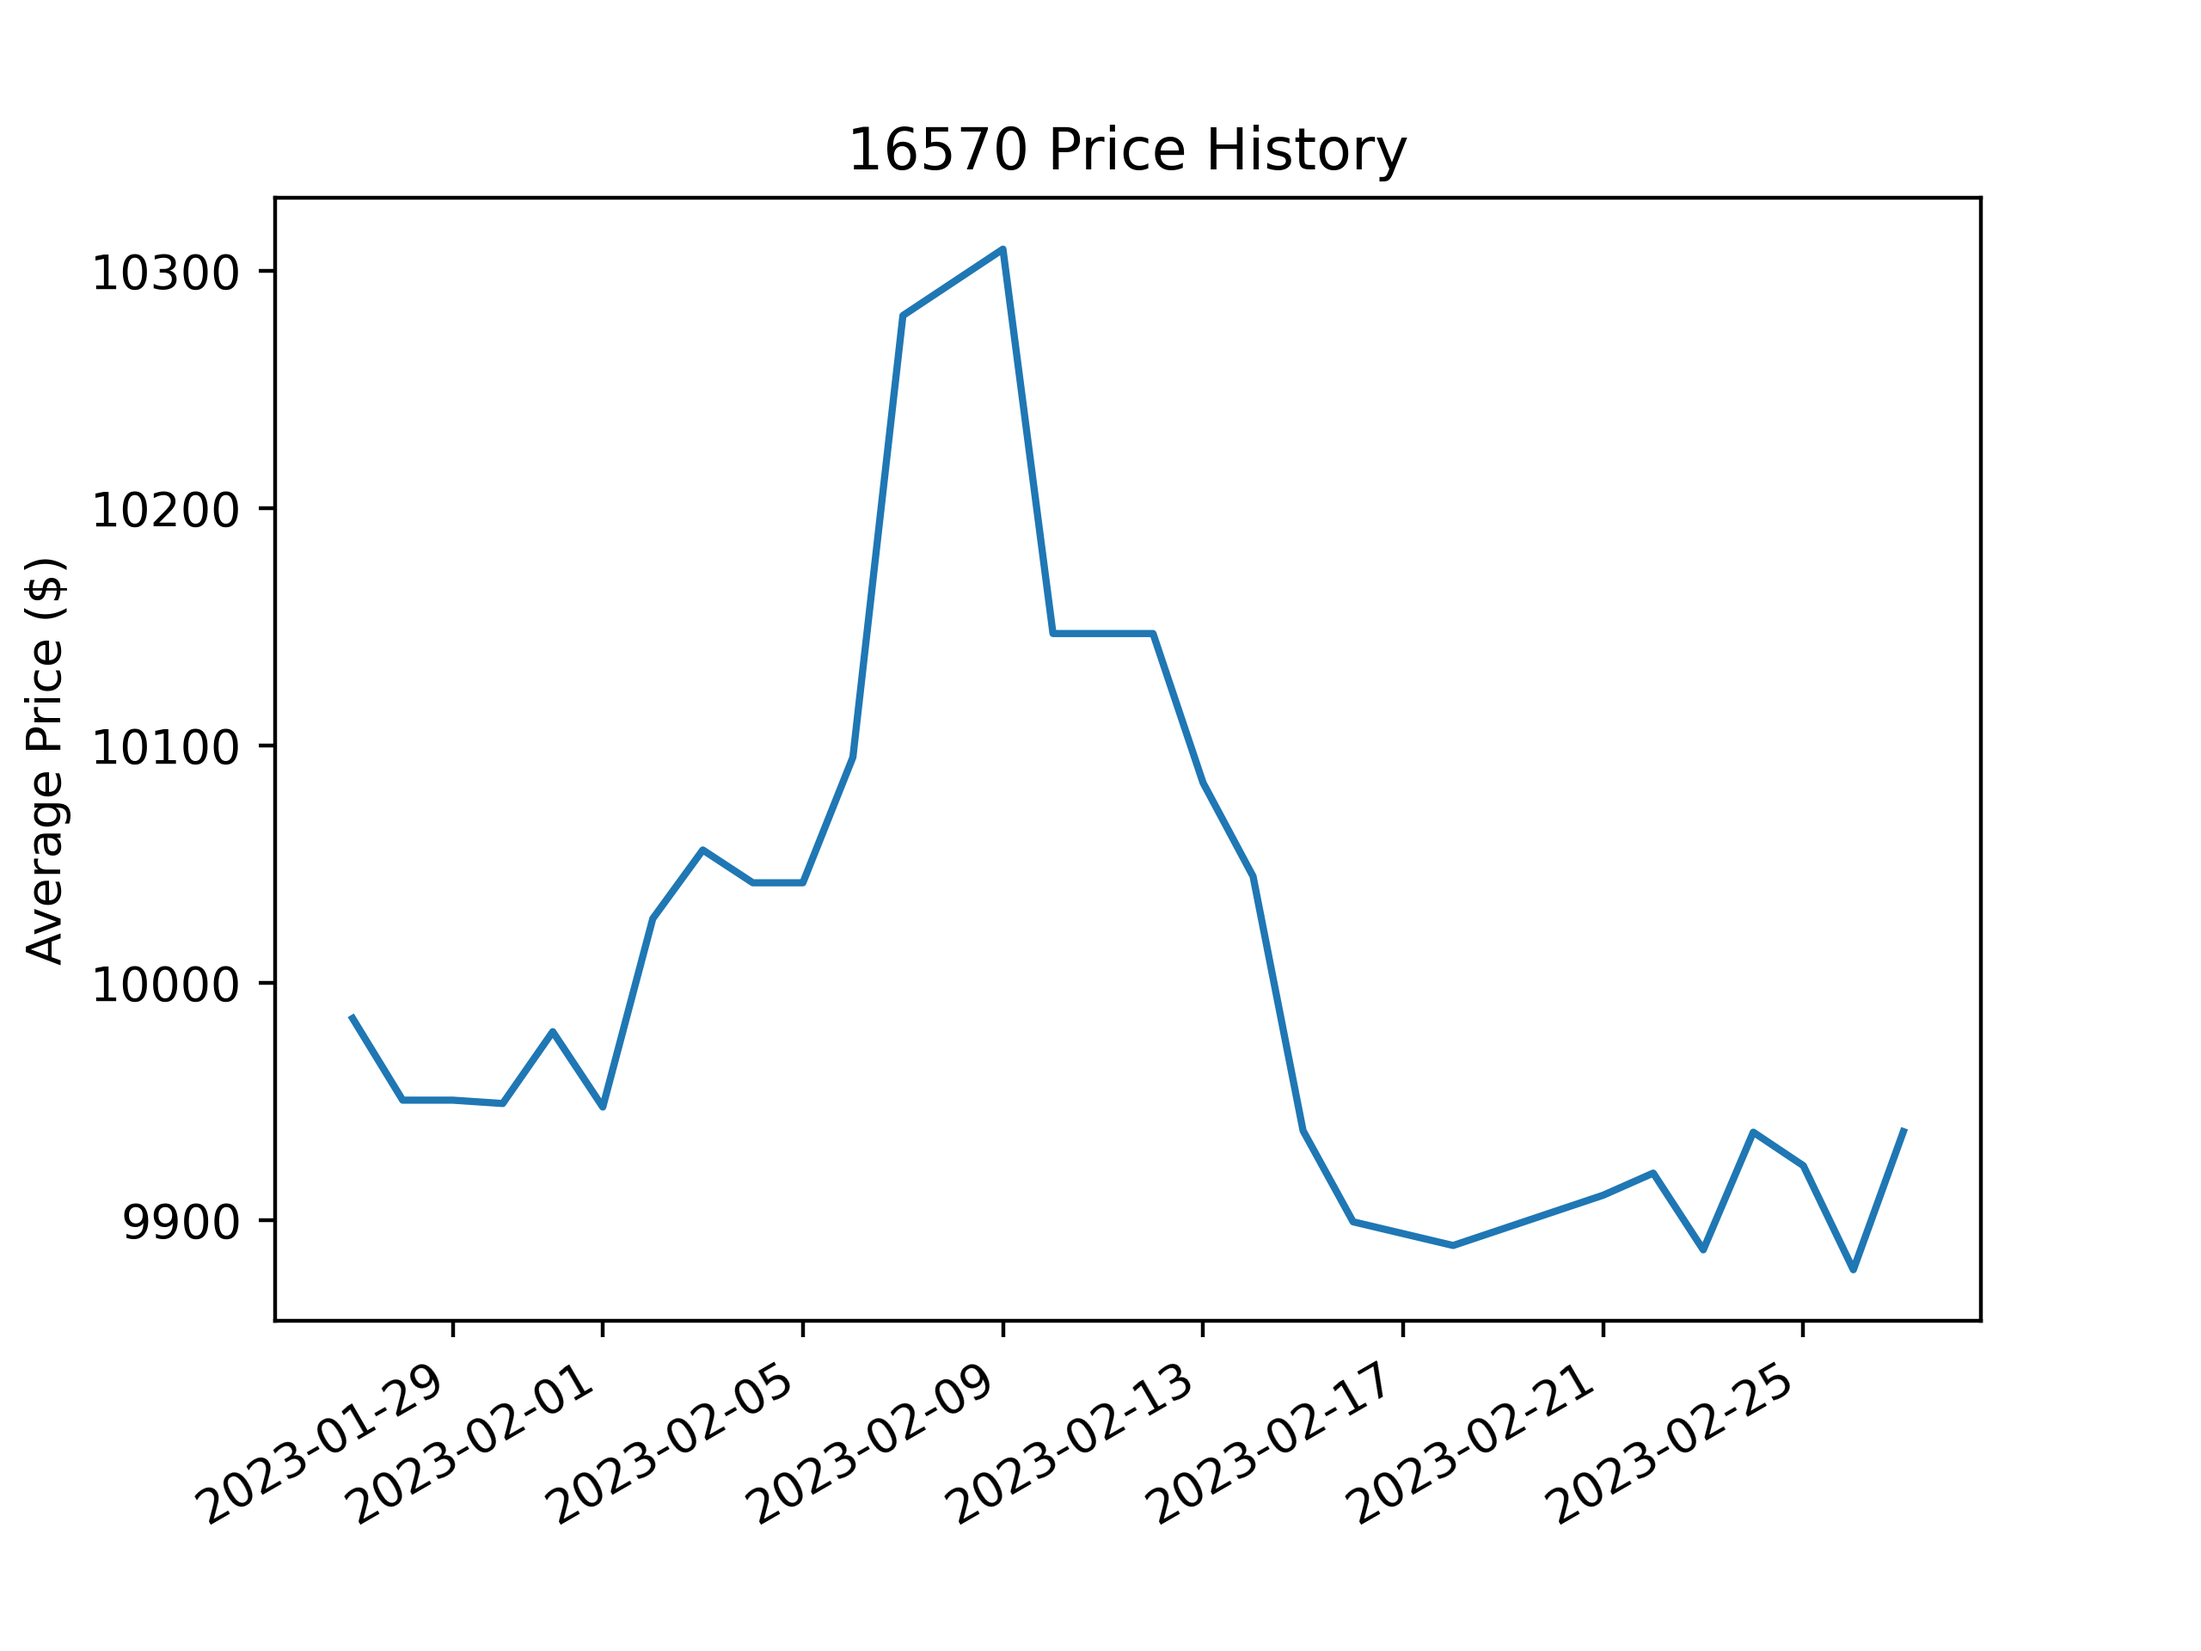
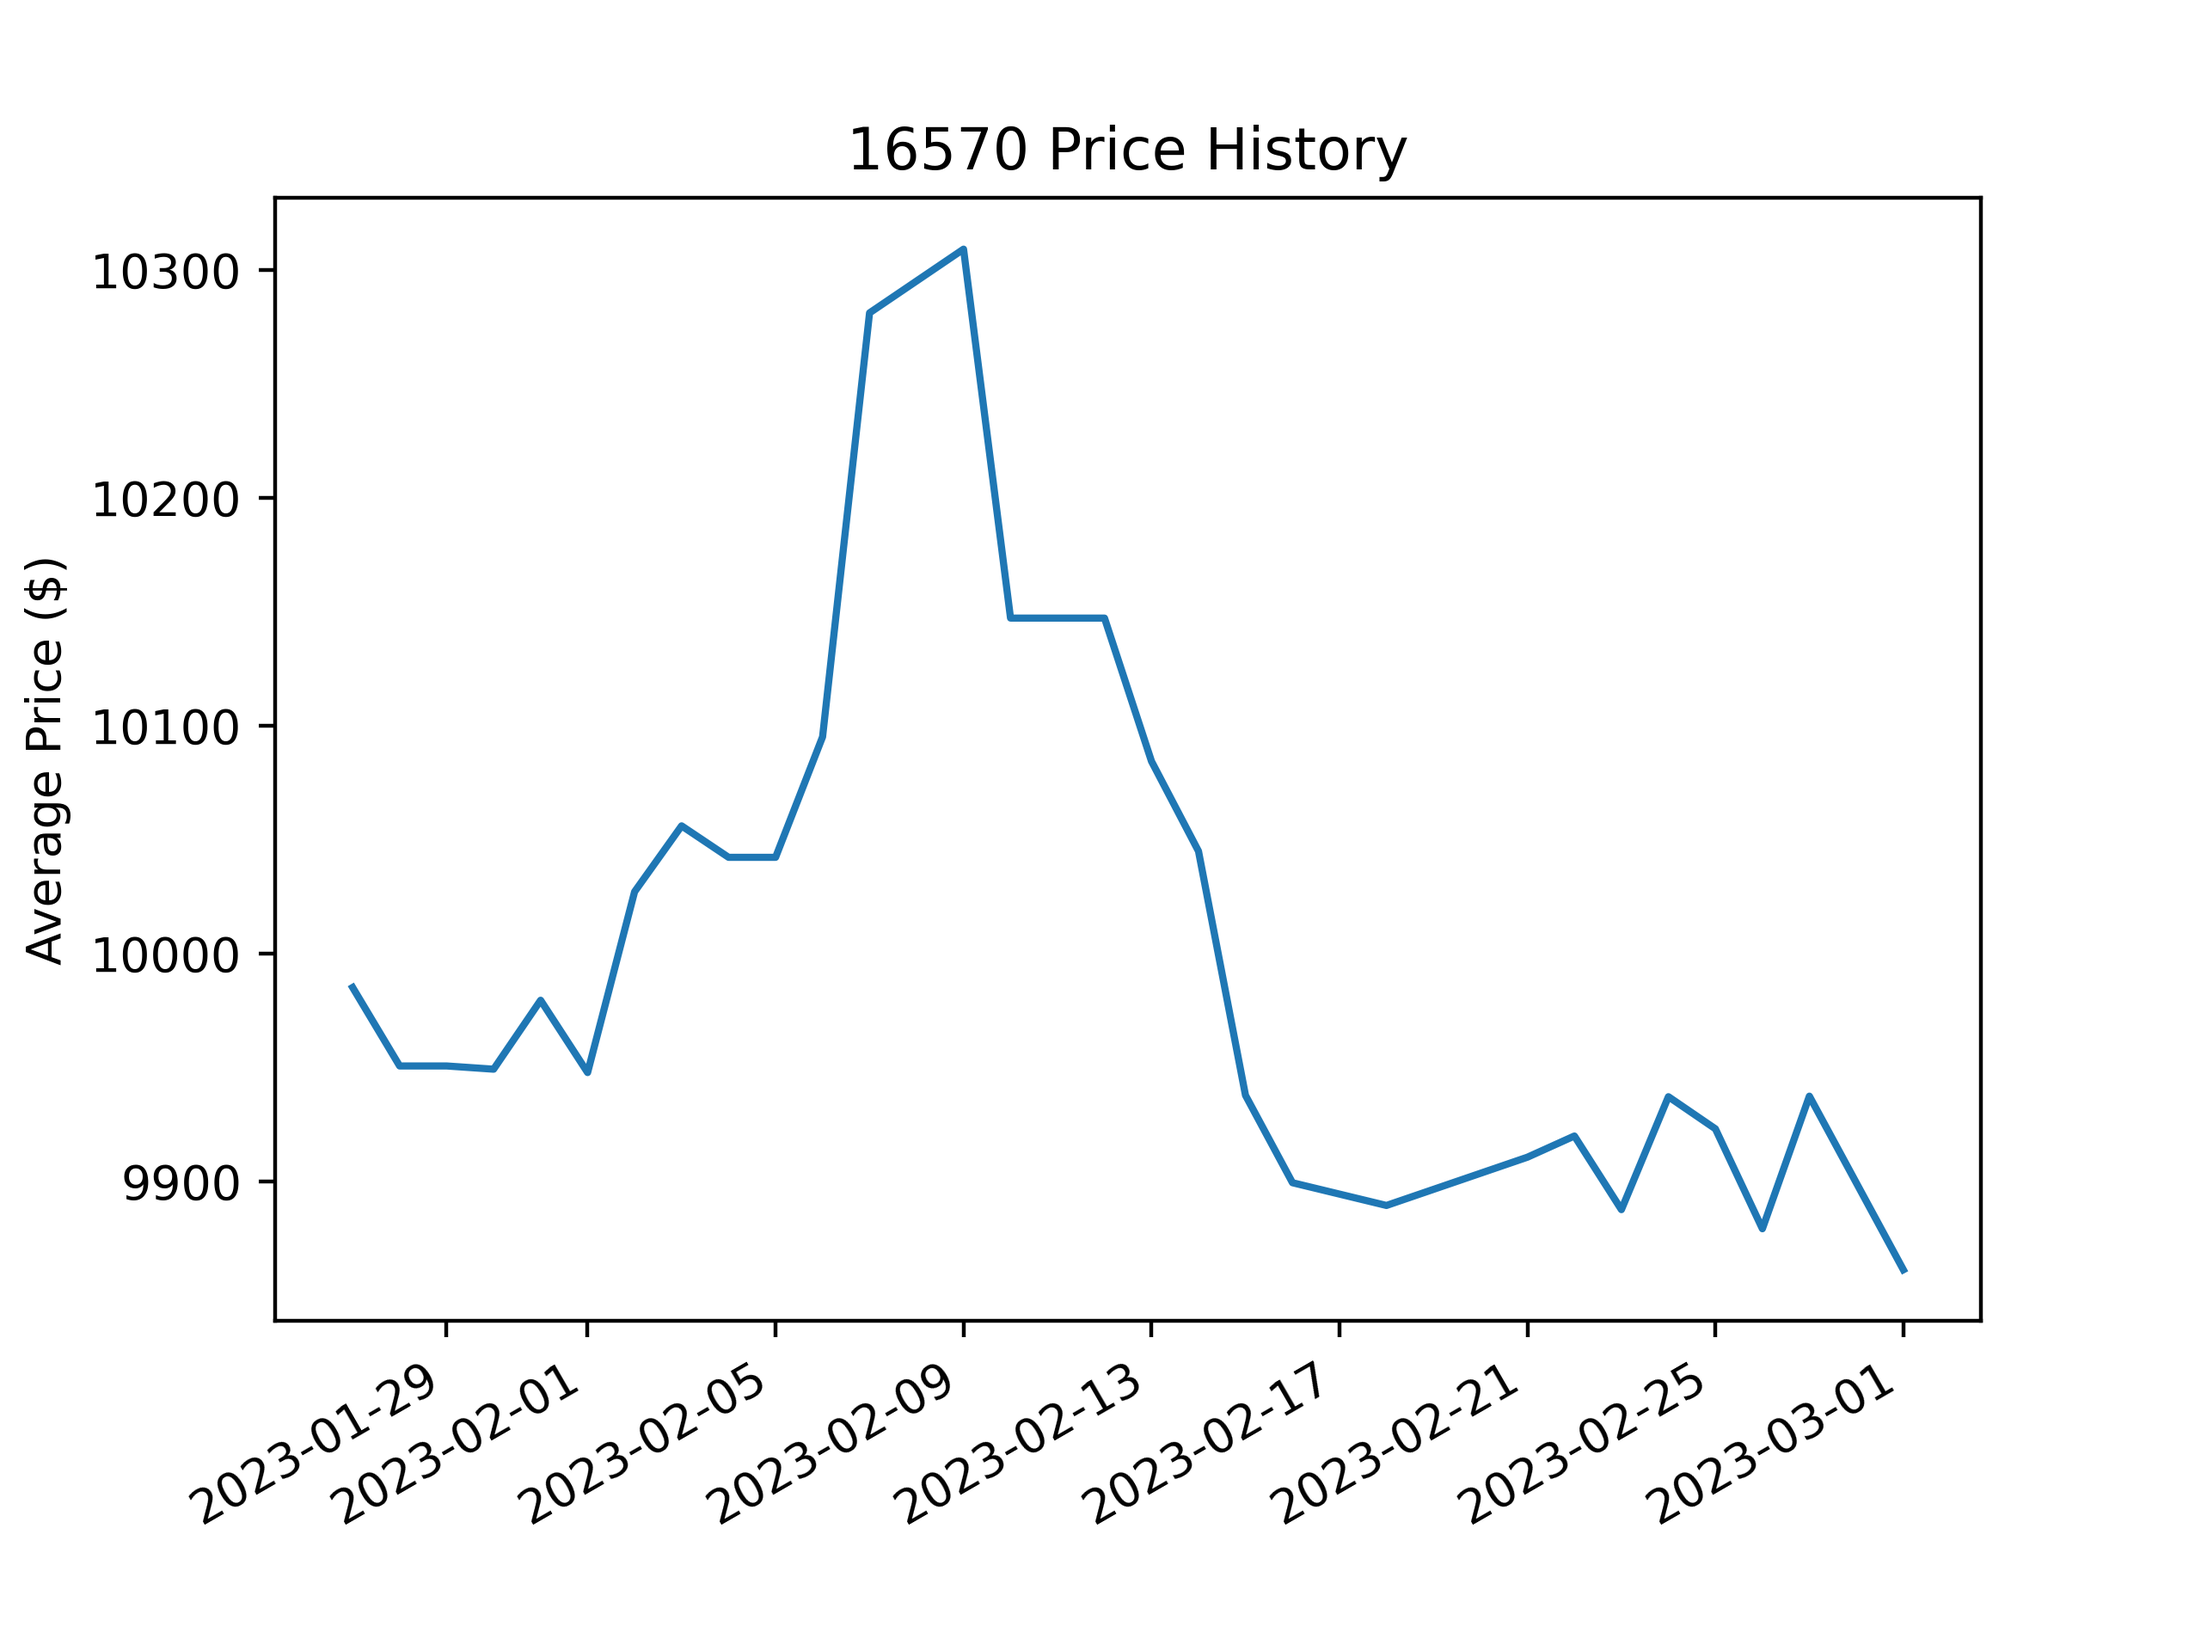
today's prices

diff --git a/all-prices/16570.html b/all-prices/16570.html
@@ -1,1 +1,1 @@
-<!DOCTYPE html><html><body><h1>All listings sorted in ascending order by price</h1><div> <a href="https://www.watchfinder.com/Rolex/Explorer II/16570/1780/item/230008" target="_blank" rel="noopener noreferrer">$8765</a> </div><div> <a href="https://www.thewatchbox.com/shop/4657300.html" target="_blank" rel="noopener noreferrer">$8850</a> </div><div> <a href="https://www.watchfinder.com/Rolex/Explorer II/16570/1780/item/236074" target="_blank" rel="noopener noreferrer">$8885</a> </div><div> <a href="https://www.thewatchbox.com/shop/4777322.html" target="_blank" rel="noopener noreferrer">$8950</a> </div><div> <a href="https://www.crownandcaliber.com/products/rolex-explorer-ii-16570-10-10-rol-t6d7yb" target="_blank" rel="noopener noreferrer">$9000</a> </div><div> <a href="https://www.crownandcaliber.com/products/rolex-explorer-ii-16570-10-10-rol-mg7xp9" target="_blank" rel="noopener noreferrer">$9000</a> </div><div> <a href="https://www.watchfinder.com/Rolex/Explorer II/16570/1780/item/232242" target="_blank" rel="noopener noreferrer">$9050</a> </div><div> <a href="https://www.crownandcaliber.com/products/rolex-explorer-ii-16570-10-10-rol-ngl42x" target="_blank" rel="noopener noreferrer">$9150</a> </div><div> <a href="https://www.crownandcaliber.com/products/rolex-explorer-ii-16570-10-10-rol-rcg6ap" target="_blank" rel="noopener noreferrer">$9150</a> </div><div> <a href="https://www.thewatchbox.com/shop/4652947.html" target="_blank" rel="noopener noreferrer">$9450</a> </div><div> <a href="https://www.crownandcaliber.com/products/rolex-explorer-ii-16570-10-10-rol-40mq2n" target="_blank" rel="noopener noreferrer">$9600</a> </div><div> <a href="https://aiswatches.com/rolex-polar-explorer-ii-16570-p-serial-white-dial-box-papers-rsc-serviced/" target="_blank" rel="noopener noreferrer">$9775.0</a> </div><div> <a href="https://aiswatches.com/rolex-polar-explorer-ii-16570-y-serial-white-dial-box-paper-1/" target="_blank" rel="noopener noreferrer">$9775.0</a> </div><div> <a href="https://www.watchfinder.com/Rolex/Explorer II/16570/1780/item/231382" target="_blank" rel="noopener noreferrer">$9830</a> </div><div> <a href="https://mandbwatches.com/product/rolex-explorer-ii-40mm-16570-stainless-steel-polar-white-dial-w-papers-unpolished/" target="_blank" rel="noopener noreferrer">$9950.0</a> </div><div> <a href="https://www.watchfinder.com/Rolex/Explorer II/16570/1780/item/233065" target="_blank" rel="noopener noreferrer">$10175</a> </div><div> <a href="https://www.watchfinder.com/Rolex/Explorer II/16570/1780/item/240103" target="_blank" rel="noopener noreferrer">$10310</a> </div><div> <a href="https://www.watchfinder.com/Rolex/Explorer II/16570/1780/item/230050" target="_blank" rel="noopener noreferrer">$10320</a> </div><div> <a href="https://www.watchfinder.com/Rolex/Explorer II/16570/1780/item/239520" target="_blank" rel="noopener noreferrer">$10660</a> </div><div> <a href="https://www.watchfinder.com/Rolex/Explorer II/16570/1780/item/216068" target="_blank" rel="noopener noreferrer">$10660</a> </div><div> <a href="https://www.watchfinder.com/Rolex/Explorer II/16570/1780/item/231123" target="_blank" rel="noopener noreferrer">$10690</a> </div><div> <a href="https://www.watchfinder.com/Rolex/Explorer II/16570/1780/item/235967" target="_blank" rel="noopener noreferrer">$10855</a> </div><div> <a href="https://www.bobswatches.com//rolex-explorer-ii-16570-white-dial-watch.html" target="_blank" rel="noopener noreferrer">$10895</a> </div><div> <a href="https://aiswatches.com/rolex-polar-explorer-ii-16570-v-serial-white-dial-3186-movement-box-papers/" target="_blank" rel="noopener noreferrer">$10975.0</a> </div><div> <a href="https://aiswatches.com/rolex-polar-explorer-ii-16570-m-serial-white-dial-3186-movement-box-papers/" target="_blank" rel="noopener noreferrer">$10975.0</a> </div><div> <a href="https://davidsw.com/shop/watch/rolex/rolex-16570-explorer-ii-with-white-dial-86/" target="_blank" rel="noopener noreferrer">$12675.0</a> </div></body></html>
+<!DOCTYPE html><html><body><h1>All listings sorted in ascending order by price</h1><div> <a href="https://www.crownandcaliber.com/products/rolex-explorer-ii-16570-10-10-rol-mg7xp9" target="_blank" rel="noopener noreferrer">$8275</a> </div><div> <a href="https://www.bobswatches.com//rolex-explorer-ii-16570-polar-dial.html" target="_blank" rel="noopener noreferrer">$8695</a> </div><div> <a href="https://www.watchfinder.com/Rolex/Explorer II/16570/1780/item/230008" target="_blank" rel="noopener noreferrer">$8765</a> </div><div> <a href="https://www.watchfinder.com/Rolex/Explorer II/16570/1780/item/236074" target="_blank" rel="noopener noreferrer">$8885</a> </div><div> <a href="https://www.watchfinder.com/Rolex/Explorer II/16570/1780/item/230573" target="_blank" rel="noopener noreferrer">$8910</a> </div><div> <a href="https://www.thewatchbox.com/shop/4777322.html" target="_blank" rel="noopener noreferrer">$8950</a> </div><div> <a href="https://www.crownandcaliber.com/products/rolex-explorer-ii-16570-10-10-rol-t6d7yb" target="_blank" rel="noopener noreferrer">$9000</a> </div><div> <a href="https://www.crownandcaliber.com/products/rolex-explorer-ii-16570-10-10-rol-9mvdkh" target="_blank" rel="noopener noreferrer">$9000</a> </div><div> <a href="https://www.watchfinder.com/Rolex/Explorer II/16570/1780/item/232242" target="_blank" rel="noopener noreferrer">$9050</a> </div><div> <a href="https://www.crownandcaliber.com/products/rolex-explorer-ii-16570-10-10-rol-rcg6ap" target="_blank" rel="noopener noreferrer">$9150</a> </div><div> <a href="https://www.thewatchbox.com/shop/4652947.html" target="_blank" rel="noopener noreferrer">$9450</a> </div><div> <a href="https://www.crownandcaliber.com/products/rolex-explorer-ii-16570-10-10-rol-40mq2n" target="_blank" rel="noopener noreferrer">$9600</a> </div><div> <a href="https://aiswatches.com/rolex-polar-explorer-ii-16570-p-serial-white-dial-box-papers-rsc-serviced/" target="_blank" rel="noopener noreferrer">$9775.0</a> </div><div> <a href="https://aiswatches.com/rolex-polar-explorer-ii-16570-y-serial-white-dial-box-paper-1/" target="_blank" rel="noopener noreferrer">$9775.0</a> </div><div> <a href="https://www.watchfinder.com/Rolex/Explorer II/16570/1780/item/231382" target="_blank" rel="noopener noreferrer">$9830</a> </div><div> <a href="https://mandbwatches.com/product/rolex-explorer-ii-40mm-16570-stainless-steel-polar-white-dial-w-papers-unpolished/" target="_blank" rel="noopener noreferrer">$9950.0</a> </div><div> <a href="https://www.watchfinder.com/Rolex/Explorer II/16570/1780/item/233065" target="_blank" rel="noopener noreferrer">$10175</a> </div><div> <a href="https://www.watchfinder.com/Rolex/Explorer II/16570/1780/item/240103" target="_blank" rel="noopener noreferrer">$10310</a> </div><div> <a href="https://www.watchfinder.com/Rolex/Explorer II/16570/1780/item/230050" target="_blank" rel="noopener noreferrer">$10320</a> </div><div> <a href="https://www.watchfinder.com/Rolex/Explorer II/16570/1780/item/239520" target="_blank" rel="noopener noreferrer">$10660</a> </div><div> <a href="https://www.watchfinder.com/Rolex/Explorer II/16570/1780/item/216068" target="_blank" rel="noopener noreferrer">$10660</a> </div><div> <a href="https://www.watchfinder.com/Rolex/Explorer II/16570/1780/item/231123" target="_blank" rel="noopener noreferrer">$10690</a> </div><div> <a href="https://www.watchfinder.com/Rolex/Explorer II/16570/1780/item/235967" target="_blank" rel="noopener noreferrer">$10855</a> </div><div> <a href="https://www.bobswatches.com//rolex-explorer-ii-16570-white-dial-watch.html" target="_blank" rel="noopener noreferrer">$10895</a> </div><div> <a href="https://aiswatches.com/rolex-polar-explorer-ii-16570-v-serial-white-dial-3186-movement-box-papers/" target="_blank" rel="noopener noreferrer">$10975.0</a> </div><div> <a href="https://aiswatches.com/rolex-polar-explorer-ii-16570-m-serial-white-dial-3186-movement-box-papers/" target="_blank" rel="noopener noreferrer">$10975.0</a> </div><div> <a href="https://davidsw.com/shop/watch/rolex/rolex-16570-explorer-ii-with-white-dial-86/" target="_blank" rel="noopener noreferrer">$12675.0</a> </div></body></html>
